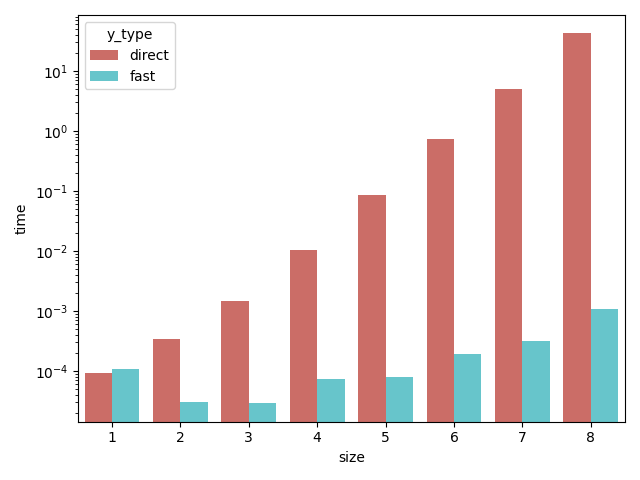
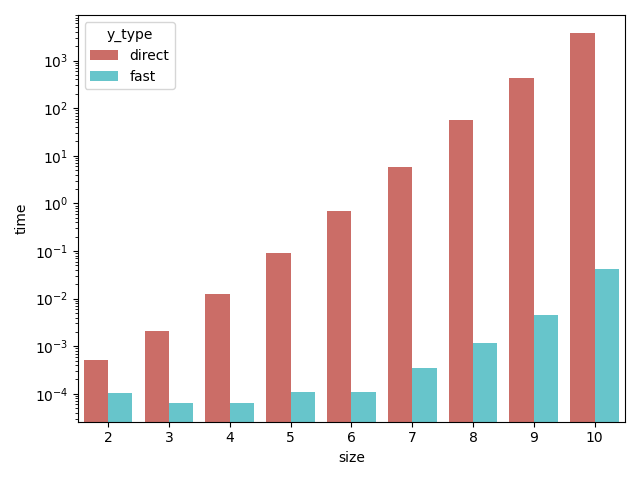
Update order plot up to 2^10

diff --git a/report/report.tex b/report/report.tex
@@ -109,7 +109,9 @@ La trasformata DCT2 diretta è stata implementata in Python mentre per la sua
 versione \textit{fast} è stata utilizzata la libreria Python \texttt{fftpack} di
 \texttt{scipy}.
 
-La trasformata DCT che è stata implementata è la DCT di tipo II con riferimento alla seguente definizione:
+Per poter implementare la DCT2 è stato prima necessario implementare la
+trasformata DCT. In questo progetto, è stata implementata la DCT di tipo II con
+riferimento alla seguente definizione:
 
 \begin{equation*}
 	c_k = \alpha_k^N \sum_{i=0}^{N-1} x_i \cos \left(\pi k \frac{2i + 1}{2N} \right), \qquad k=0, \cdots, N-1
